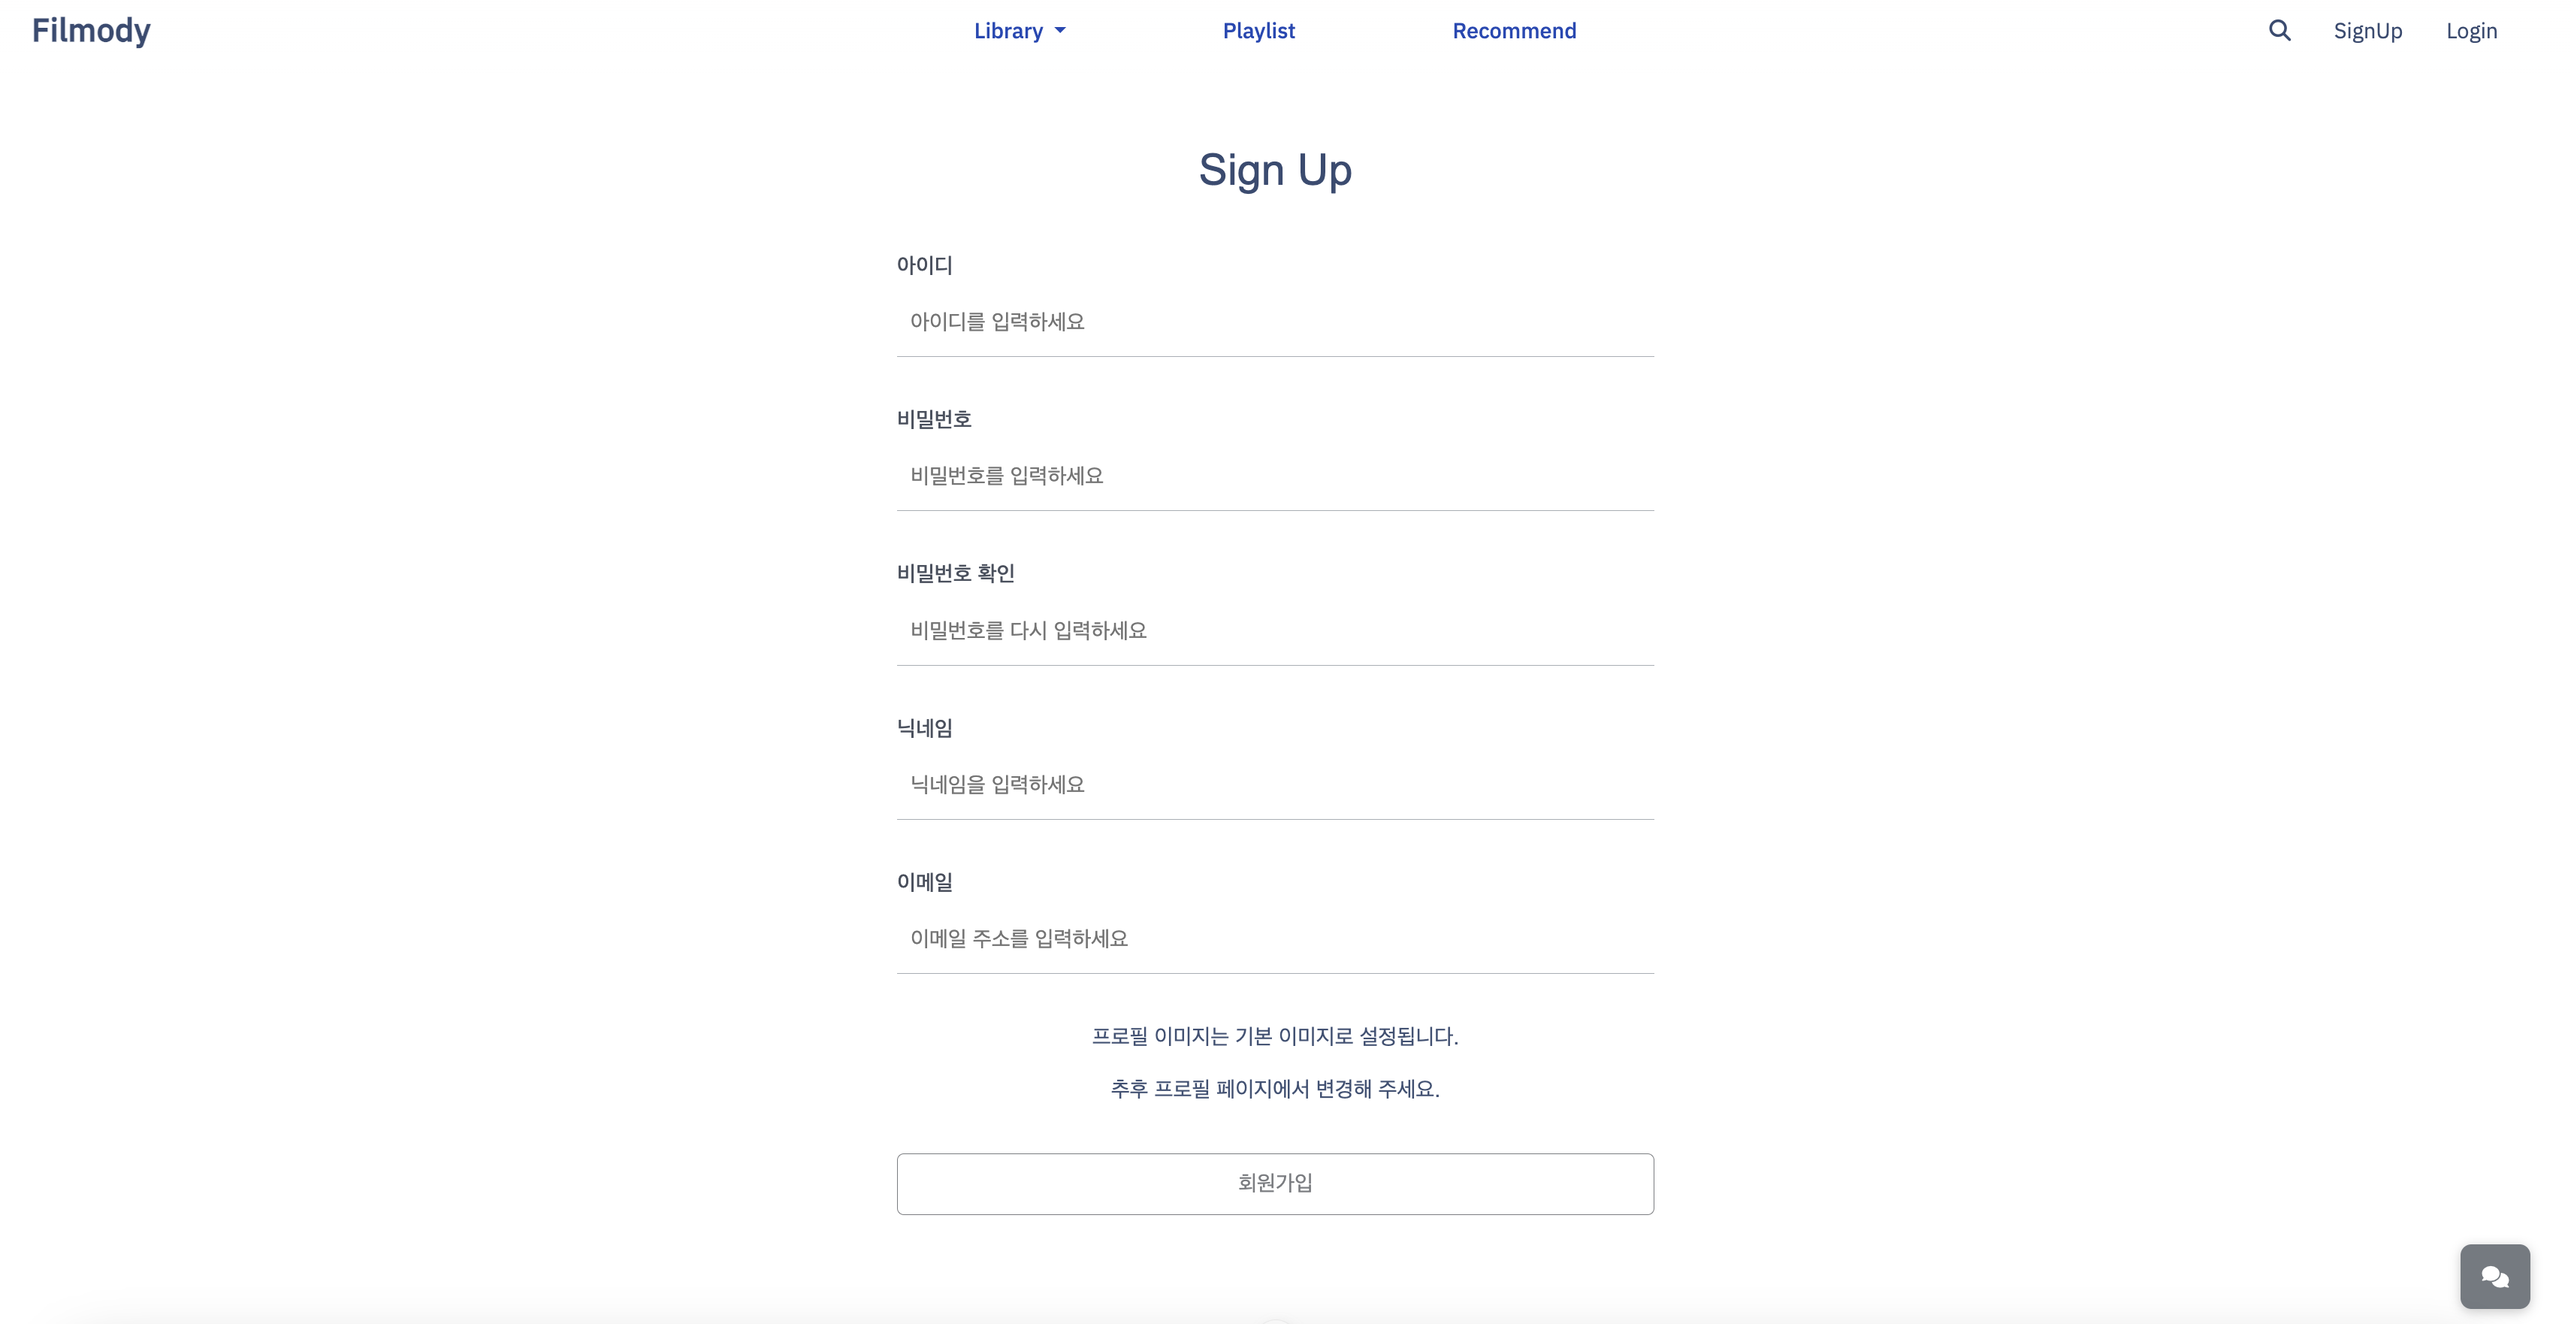
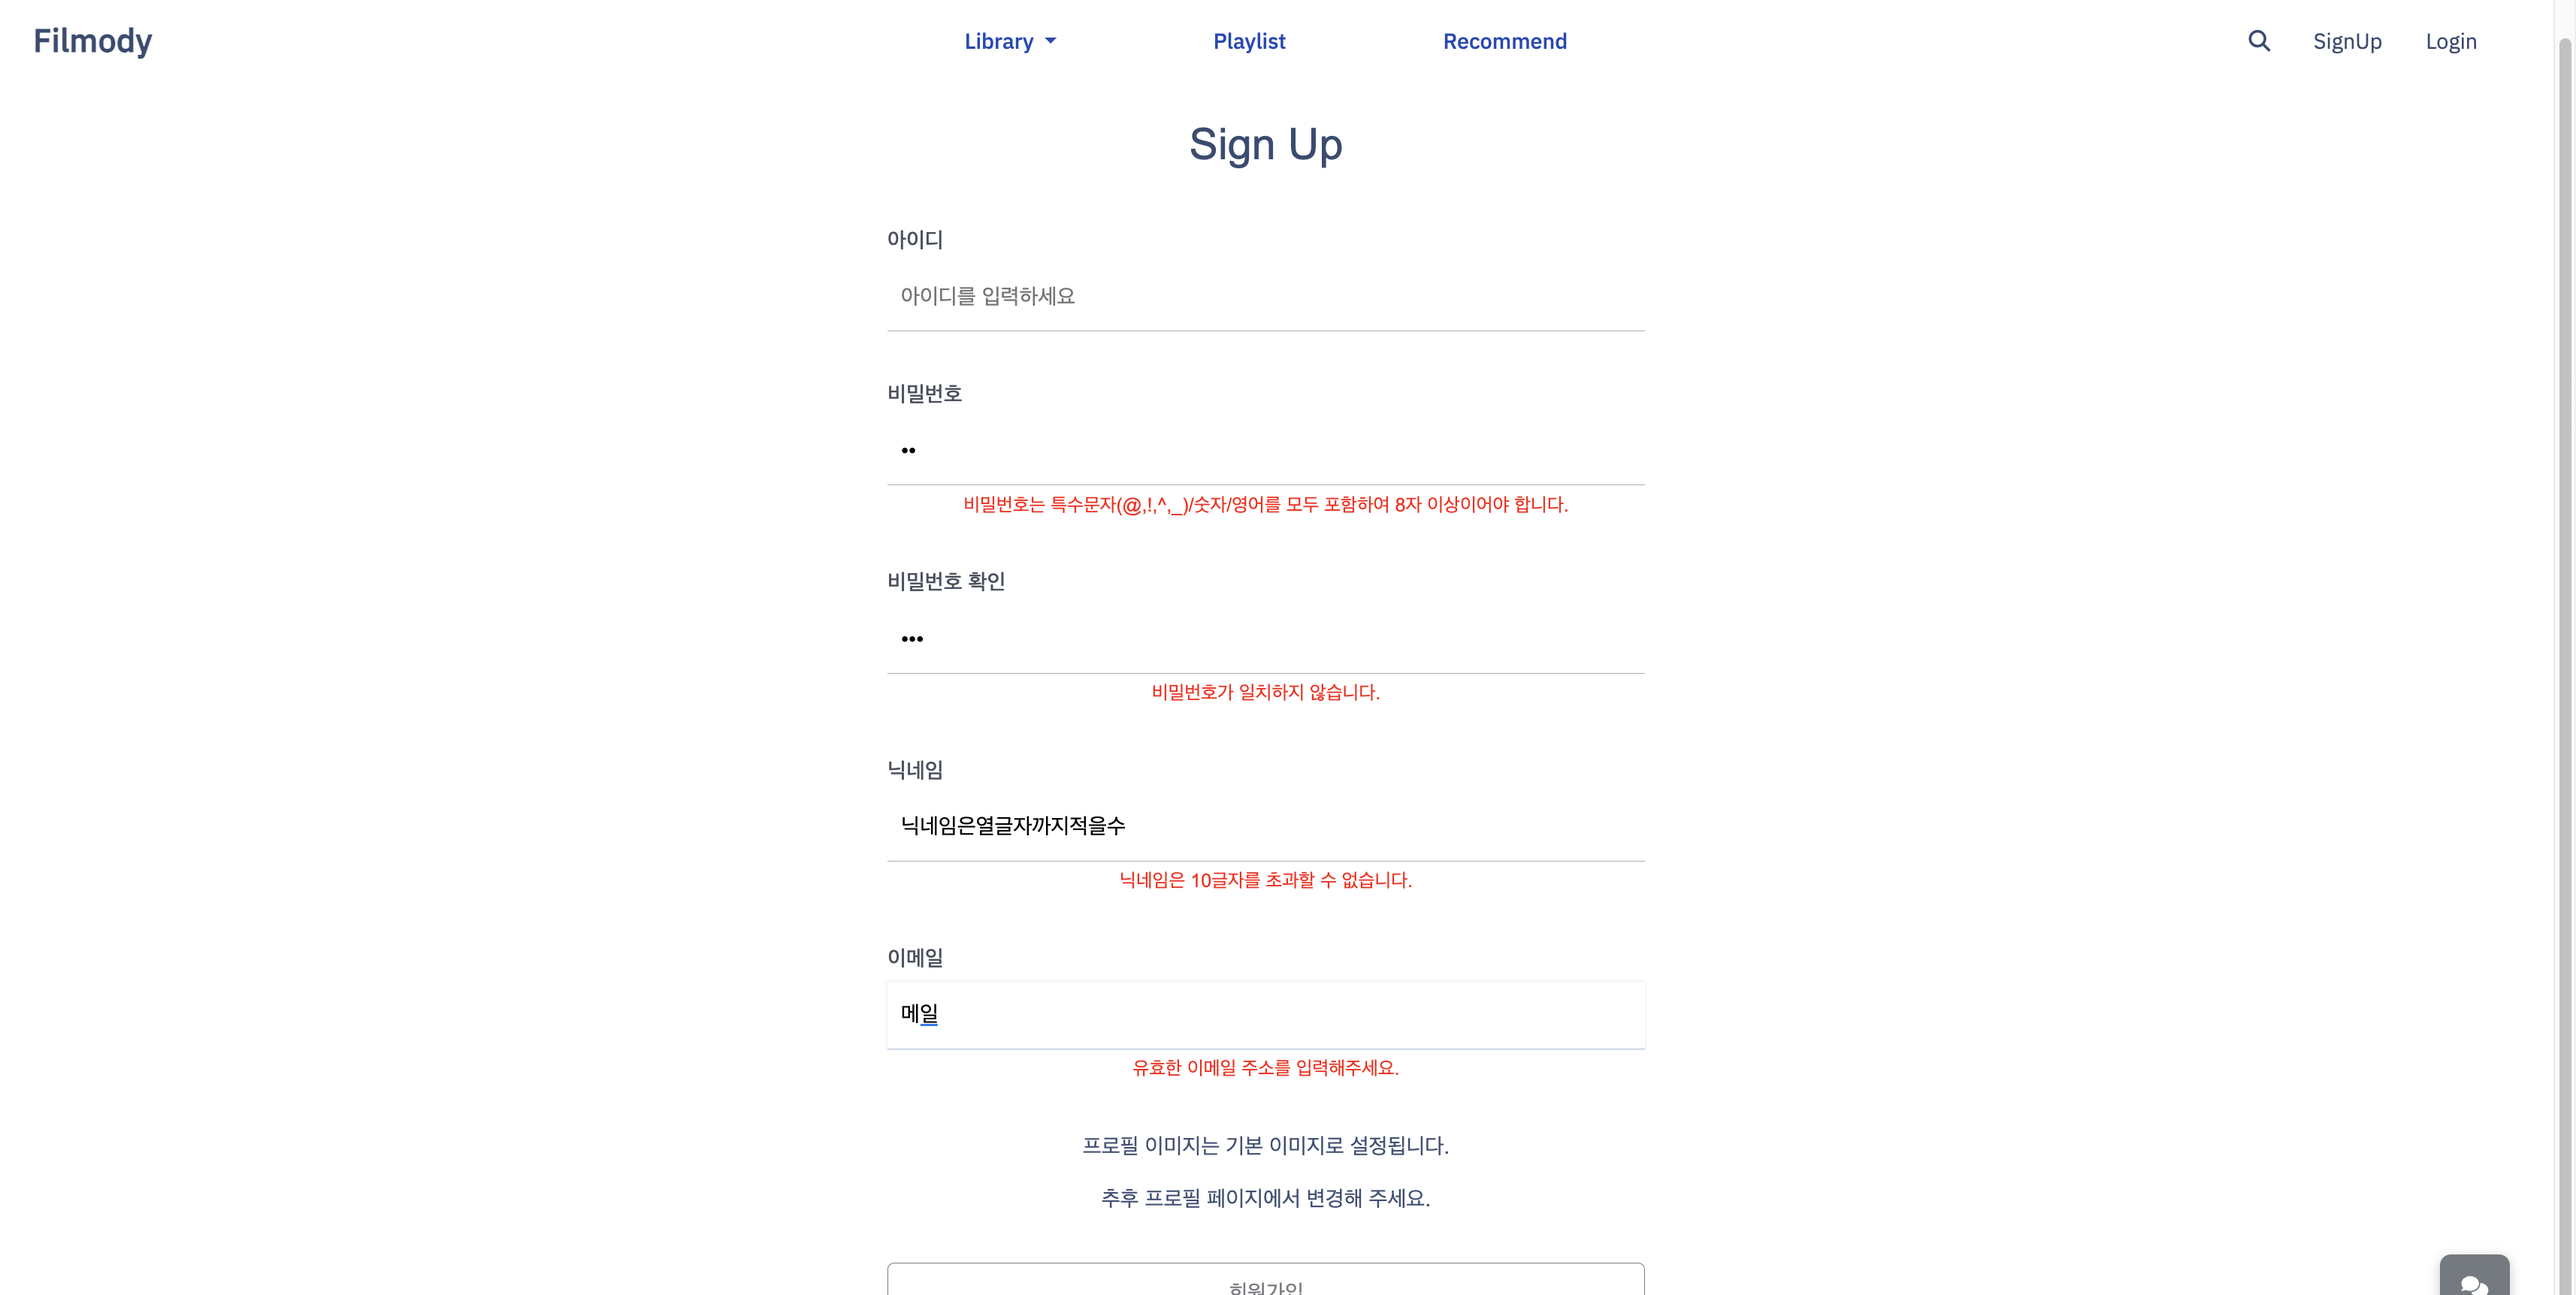
readme 이미지 추가 및 수정

diff --git a/README.md b/README.md
@@ -33,6 +33,72 @@ film + melody
 
 # 2. 주요 기능
 ### 1) 회원가입
+![회원가입](./images/signup.png)
+  - 회원가입 시 각 필드 유효성 검사 진행하도록 vue에서 처리
+
+### 2) 로그인 
+![로그인](./images/login.png)
+  - 유저 id와 password를 통해 로그인
+
+### 3) 회원정보 수정
+![회원정보 수정](./images/profileupdate.png)
+  - 프로필 페이지에서 접근 가능
+  - 비밀번호 변경 외 필드는 변경시 비밀번호 요구하지 않음
+  - 회원가입과 동일하게 유효성 검사
+  - 리뷰 가리기 기능: 스포일러에 민감한 이용자를 위해 기능 구현(가입시 기본 활성화)
+  - 회원 탈퇴 시 비밀번호 한 번 더 입력하도록 요구
+
+### 4) 회원 탈퇴
+![회원 탈퇴](./images/userdelete.png)
+  - 유저 password 검증을 통해 탈퇴처리
+
+### 5) 유저 프로필 & 팔로우
+  ![유저 프로필](./images/profiledetail.png)
+  ![팔로우](./images/userfollow.png)
+  - 회원정보 수정 접근하는 버튼 위치
+  - 활동 기록(좋아요한 영화/플레이리스트 내역, 만든 플레이리스트 표시)
+  - 유저 팔로우 / 언팔로우 기능
+
+### 6) 플레이리스트
+![전체 플레이리스트 조회](./images/playlist.png)
+![플레이리스트 소유자](./images/playlistowner.png)
+![플레이리스트 이용자](./images/playlistdetail.png)
+![플레이리스트 추가1](./images/youtubesearch.png)
+![플레이리스트 추가2](./images/youtubesearchdetail.png)
+  - 전체 목록 조회 가능 + 새 플레이리스트 생성 버튼 위치(비로그인 사용자에겐 보이지 않도록 설정)
+  - 좋아요는 타인의 플레이리스트에 대해서만 가능
+  - 플레이리스트 게시자(소유자)만 삭제 및 추가 가능하도록 권한 설정(타 이용자에게는 버튼 노출 X)
+  - Youtube API 활용하여 플레이리스트 추가하도록 구현
+  - 영상이 바로 재생되지 않도록 5초간의 딜레이 후 자동재생되도록 구현
+  - API 데이터를 통해 곡이 끝나면 바로 다음 곡 자동재생
+
+### 7) 플레이리스트 리뷰
+![플레이리스트 리뷰](./images/review.png)
+![리뷰 가리기](./images/reviewhide.png)
+  - 회원만 작성 가능하도록 설정
+  - 내용 한 글자라도 작성해야 작성 버튼 활성화
+  - 회원정보의 '리뷰 가리기' 활성화 여부에 따른 리뷰 가리기 기능 구현
+  - 타인의 리뷰에 좋아요 가능
+  - 리뷰의 작성자 정보를 통해 유저 상세프로필 접근 가능
+
+### 8) 영화 추천
+![영화 추천](./images/recommendmovie.png)
+  - KOBIS / KMDB API 활용한 박스오피스 기준 영화 추천
+  - 상위 10개의 영화 추천하며 각 카드를 통해 상세정보 조회 가능
+
+### 9) 영화 상세정보 조회
+![영화 정보](./images/moviedetail.png)
+  - KMDB API 활용하여 영화 상세정보 출력
+
+### 10) 영화 검색
+![영화 검색](./images/search.png)
+  - 감독명 또는 영화 제목으로 데이터 검색 가능
+
+### 11) AI 영화 추천
+![AI 영화 추천](./images/airecommend.png)
+  - Open AI API 활용하여 프론트 단위에서 응답 처리하도록 구성
+
+
 
 
 
